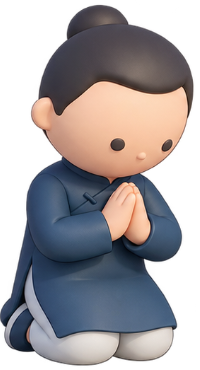
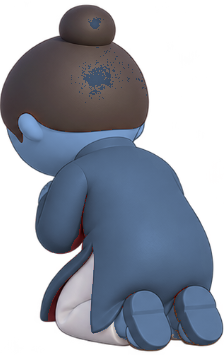
fix: make male character face inward when kneeling and bowing towards Buddha

diff --git a/tiktok-live-test/public/index.html b/tiktok-live-test/public/index.html
@@ -1019,22 +1019,22 @@
     // ========================================================
     const spriteUrls = {
       female: {
-        walk_back: "assets/f_walk_back.png",
-        kneel:     "assets/f_kneel.png",
-        turn:      "assets/f_turn.png",
-        walk_front:"assets/f_walk_front.png",
-        flower:    "assets/f_flower.png",
-        incense:   "assets/f_incense.png",
-        ascend:    "assets/f_ascend.png",
+        walk_back: "assets/f_walk_back.png?v=3",
+        kneel:     "assets/f_kneel.png?v=3",
+        turn:      "assets/f_turn.png?v=3",
+        walk_front:"assets/f_walk_front.png?v=3",
+        flower:    "assets/f_flower.png?v=3",
+        incense:   "assets/f_incense.png?v=3",
+        ascend:    "assets/f_ascend.png?v=3",
       },
       male: {
-        walk_back: "assets/m_walk_back.png",
-        kneel:     "assets/m_kneel.png",
-        turn:      "assets/m_turn.png",
-        walk_front:"assets/m_walk_front.png",
-        flower:    "assets/m_flower.png",
-        incense:   "assets/m_incense.png",
-        ascend:    "assets/m_ascend.png",
+        walk_back: "assets/m_walk_back.png?v=3",
+        kneel:     "assets/m_kneel.png?v=3",
+        turn:      "assets/m_turn.png?v=3",
+        walk_front:"assets/m_walk_front.png?v=3",
+        flower:    "assets/m_flower.png?v=3",
+        incense:   "assets/m_incense.png?v=3",
+        ascend:    "assets/m_ascend.png?v=3",
       }
     };
 
@@ -1364,7 +1364,15 @@
       const posX = (cvs.width - targetW) / 2;
       const posY = cvs.height - targetH;
 
+      ctx.save();
+      // Khi quỳ bái lạy (kneel), nhân vật ở nửa sân bên phải (currentX > 50) lật ngược lại
+      // để cả hai bên đều thành kính hướng mặt vào trong tôn tượng Phật ở trung tâm
+      if (actionName === "kneel" && w.currentX > 50) {
+        ctx.translate(cvs.width, 0);
+        ctx.scale(-1, 1);
+      }
       ctx.drawImage(img, posX, posY, targetW, targetH);
+      ctx.restore();
     }
 
     // ========================================================
